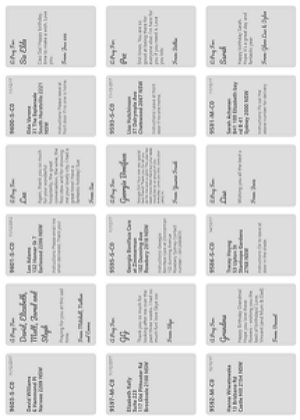
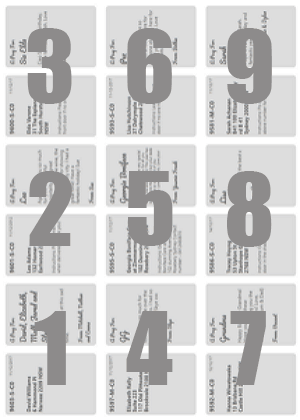
enh(partial): more clearly indicate label order and number that will be printed

diff --git a/app/client/labelPartial.html b/app/client/labelPartial.html
@@ -17,13 +17,24 @@
 		            <div class="{{isBlank 3}}" data-id="3" style="left: 50%; top: 83%; width: 100px; height: 140px;"></div>
 		            <div class="{{isBlank 6}}" data-id="6" style="left: 83%; top: 83%; width: 100px; height: 140px;"></div>
 		        </div>
+		        <div class="uk-text-center">
+					<i class="fa fa-arrow-circle-down" aria-hidden="true"></i>
+		        	PRINTER
+					<i class="fa fa-arrow-circle-down" aria-hidden="true"></i>
+		        </div>
 			</div>
 			<div >
 				<h2>Select Used Labels</h2>
-				<p>Select which labels have been used to indicate areas of the Label Sheet to leave blank. Once you have completed selecting all the blank labels, click the Print button below:</p>
+				<p>
+					Select which labels have been used to indicate areas of the Label Sheet to leave blank. 
+					Once you have completed selecting all the blank labels, insert the Label Sheet into the printer (labels facing down). 
+				</p>
+				<p>
+					Click the Print button below to print {{numLabels}} Label(s):
+				</p>
 			</div>
 			<a class="uk-button uk-button-primary"  
-				href="/labels?selected=1&p=1&pp=9&blanks={{blankParam}}" target="_blank">
+				href="/labels?selected=1&p=1&pp={{numLabels}}&blanks={{blankParam}}" target="_blank">
 				<i class="fas fa-tags"></i> Print 
 			</a>
 			<hr>

diff --git a/app/client/labelPartial.js b/app/client/labelPartial.js
@@ -11,6 +11,7 @@ Template.labelPartial.onCreated(function() {
 
 Template.labelPartial.helpers({
 	isBlank: (id) => 'uk-position-absolute js-blank uk-transform-center '+(Template.instance().blanks.get()[id] ? 'uk-background-default' : 'uk-blend-overlay'),
+	numLabels: () => _.reduce(Template.instance().blanks.get(), (memo, b)=>(memo += (b ? 0 : 1)), 0),
 	blankParam: () => _.reduce(Template.instance().blanks.get(), (memo, b)=>(memo += (b ? '1' :'0')), ''),
 });
 
